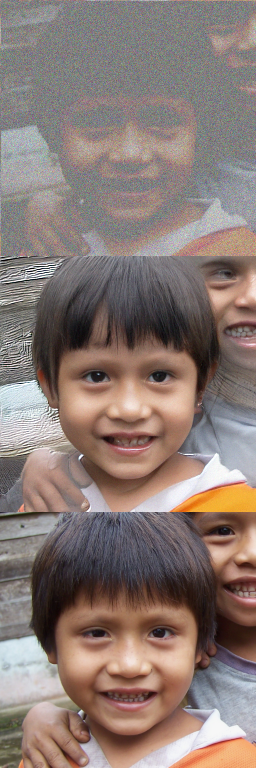
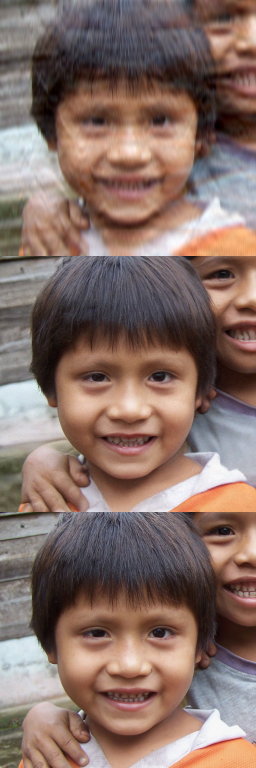
Gaussian Blurring

diff --git a/src/pseudoInverse/operators.py b/src/pseudoInverse/operators.py
@@ -3,6 +3,7 @@ import torch
 import torch.nn as nn
 import torch.nn.functional as F
 from torch.autograd import Function
+from pseudoInverse.utils import compute_svd, apply_matrix
 
 class SuperResolutionPseudoinverseOperator:
     """
@@ -217,124 +218,138 @@ class GrayscaleOperator:
         return rgb_reconstructed
     
 
-import torch
-import torch.nn as nn
-import torch.nn.functional as F
-import numpy as np
-from scipy.ndimage import gaussian_filter
-
-class GaussianDeblurOperator:
+class BlurPseudoinverseOperator:
     """
-    Pseudoinverse operator for Gaussian deblurring tasks.
-    Applies a Gaussian blur in the forward pass and attempts to reverse it in the pseudoinverse.
+    Pseudoinverse operator for blur tasks.
+    Uses SVD to compute the forward blur operation and its pseudoinverse.
     """
-    def __init__(self, kernel_size=15, sigma=2.0, device='cuda'):
+    def __init__(self, kernel_size, sigma, img_dim=256, device="cuda"):
         """
-        Initialize the Gaussian deblurring operator.
+        Initialize the blur pseudoinverse operator.
         
         Args:
-            kernel_size: Size of the Gaussian kernel (default: 15)
-            sigma: Standard deviation of the Gaussian kernel (default: 2.0)
-            device: Device to run computations on ('cuda' or 'cpu')
+            kernel: The 1D kernel to use for blurring
+            img_dim: The dimension of the image (default: 256)
+            device: The device to use for computation (default: "cuda")
         """
-        self.kernel_size = kernel_size
-        self.sigma = sigma
+        self.kernel = self.create_gaussian_kernel(kernel_size, sigma, device)
+        self.img_dim = img_dim
         self.device = device
         
-        # Create the Gaussian kernel
-        self.kernel = self._create_gaussian_kernel(kernel_size, sigma).to(device)
+        # Precompute SVD for efficiency
+        self.U_small, self.singulars_small, self.V_small = compute_svd(self.kernel, img_dim, device)
         
-    def _create_gaussian_kernel(self, kernel_size, sigma):
-        """Create a 2D Gaussian kernel."""
-        # Create a 1D Gaussian kernel
-        x = np.linspace(-(kernel_size // 2), kernel_size // 2, kernel_size)
-        gauss_1d = np.exp(-0.5 * np.square(x) / np.square(sigma))
-        gauss_1d = gauss_1d / np.sum(gauss_1d)
+        # Precompute singulars inverse for pseudoinverse operation
+        nonzero_idx = torch.nonzero(self.singulars_small, as_tuple=True)[0]
+
+        self.singulars_inv = torch.zeros_like(self.singulars_small)
+        self.singulars_inv[nonzero_idx] = 1 / self.singulars_small[nonzero_idx]
         
-        # Create a 2D Gaussian kernel
-        gauss_2d = np.outer(gauss_1d, gauss_1d)
-        gauss_2d = gauss_2d / np.sum(gauss_2d)
-        
-        # Convert to tensor with shape [1, 1, kernel_size, kernel_size]
-        return torch.FloatTensor(gauss_2d).unsqueeze(0).unsqueeze(0)
-    
     def __call__(self, x):
         return self.forward(x)
     
     def forward(self, x):
         """
-        Forward operation h(x): sharp image to blurred image.
+        Forward operation h(x): apply blur to the input image.
         
         Args:
-            x: Sharp image tensor [B, C, H, W]
+            x: Input image tensor
             
         Returns:
-            Blurred image tensor [B, C, H, W]
+            Blurred image tensor
         """
-        B, C, H, W = x.shape
-        blurred = torch.zeros_like(x)
-        
-        # Apply Gaussian blur to each channel separately
-        for b in range(B):
-            for c in range(C):
-                # Extract channel and add batch dimension for conv2d
-                channel = x[b, c].unsqueeze(0).unsqueeze(0)
-                # Apply convolution with Gaussian kernel (padding='same' to maintain dimensions)
-                blurred_channel = F.conv2d(channel, self.kernel, padding=self.kernel_size//2)
-                blurred[b, c] = blurred_channel.squeeze()
-        
-        return blurred
+        temp = apply_matrix(self.V_small.T, x, self.img_dim)
+        temp = self.singulars_small.view(1, 1, self.img_dim, 1) * temp
+        return apply_matrix(self.U_small, temp, self.img_dim)
     
-    def pseudoinverse(self, y, deblur_strength=1.0):
+    def pseudoinverse(self, y):
         """
-        Pseudoinverse operation h†(y): blurred image to sharp image estimation.
-        Uses a simple Wiener filter approach for deblurring.
-        """
-        B, C, H, W = y.shape
-        deblurred = torch.zeros_like(y)
-        
-        # Convert to frequency domain and apply Wiener filtering
-        for b in range(B):
-            for c in range(C):
-                # Extract channel and detach if needed
-                channel = y[b, c]
-                
-                # Use detach() before converting to numpy
-                channel_np = channel.detach().cpu().numpy()
-                kernel_np = self.kernel.squeeze().cpu().numpy()
-                
-                # Rest of the code remains the same...
-                padded_kernel = np.zeros((H, W))
-                kh, kw = kernel_np.shape
-                padded_kernel[:kh, :kw] = kernel_np
-                padded_kernel = np.roll(padded_kernel, -kh//2, axis=0)
-                padded_kernel = np.roll(padded_kernel, -kw//2, axis=1)
-                
-                # FFT of image and kernel
-                channel_fft = np.fft.fft2(channel_np)
-                kernel_fft = np.fft.fft2(padded_kernel)
-                
-                reg_param = 1.0 / deblur_strength
-                wiener_filter = np.conj(kernel_fft) / (np.abs(kernel_fft)**2 + reg_param)
-                
-                deblurred_fft = channel_fft * wiener_filter
-                deblurred_np = np.real(np.fft.ifft2(deblurred_fft))
-                
-                deblurred_np = np.clip(deblurred_np, 0.0, 1.0)
-                deblurred[b, c] = torch.from_numpy(deblurred_np).to(self.device)
-        
-        return deblurred
-    
-    def add_noise(self, y, noise_level=0.01):
-        """
-        Add Gaussian noise to the blurred image.
+        Pseudoinverse operation h†(y): attempt to recover the original image from a blurred one.
         
         Args:
-            y: Blurred image tensor [B, C, H, W]
-            noise_level: Standard deviation of the noise (default: 0.01)
+            y: Blurred image tensor
             
         Returns:
-            Noisy blurred image tensor [B, C, H, W]
+            Deblurred image tensor approximation
         """
-        noise = torch.randn_like(y) * noise_level
-        return y + noise
+        temp = apply_matrix(self.U_small.T, y, self.img_dim)
+        temp = self.singulars_inv.view(1, 1, self.img_dim, 1) * temp
+        return apply_matrix(self.V_small, temp, self.img_dim)
+
+    def create_gaussian_kernel(self, size=21, sigma=5.0, device="cuda"):
+        """
+        Create a 1D Gaussian kernel.
+        
+        Args:
+            size: Size of the kernel (odd number recommended)
+            sigma: Standard deviation of the Gaussian
+            device: Device to create the kernel on
+        
+        Returns:
+            1D Gaussian kernel tensor
+        """
+        coords = torch.arange(size, device=device) - (size - 1) / 2
+        kernel = torch.exp(-(coords ** 2) / (2 * sigma ** 2))
+        kernel = kernel / kernel.sum()  # Normalize to sum to 1
+        return kernel
+    
+
+class InpaintingPseudoinverseOperator:
+    """
+    Pseudoinverse operator for inpainting tasks.
+    Applies a binary mask to an image, zeroing out masked regions.
+    """
+    def __init__(self, img_shape, ratio_mask):
+        """
+        Initialize the inpainting pseudoinverse operator.
+        
+        Args:
+            mask: Binary mask tensor where 1 indicates pixels to keep and 0 indicates pixels to remove
+                 Shape should match the input images [1, 1, H, W] or [1, C, H, W]
+        """
+        self.height, self.width = img_shape[0], img_shape[1]
+        self.mask = self.create_random_mask(self.height, self.width, ratio_mask)
+        
+    def __call__(self, x):
+        return self.forward(x)
+    
+    def forward(self, x):
+        """
+        Forward operation h(x): apply mask to the input image.
+        
+        Args:
+            x: Input image tensor [B, C, H, W]
+            
+        Returns:
+            Masked image tensor with same shape as input
+        """
+        return x * self.mask
+    
+    def pseudoinverse(self, y):
+        """
+        Pseudoinverse operation h†(y): for inpainting, this is simply the identity function
+        since we cannot recover the masked out information.
+        
+        Args:
+            y: Masked image tensor [B, C, H, W]
+            
+        Returns:
+            Same tensor as input (no recovery of masked pixels is possible)
+        """
+        return y
+
+    def create_random_mask(self, height=256, width=256, mask_ratio=0.5, device='cuda'):
+        """
+        Create a random binary mask.
+        
+        Args:
+            height: Height of the mask
+            width: Width of the mask
+            mask_ratio: Ratio of pixels to keep (1-mask_ratio will be masked out)
+            device: Device to create mask on
+        
+        Returns:
+            Binary mask tensor [1, 1, H, W]
+        """
+        mask = torch.rand(1, 1, height, width, device=device) > (1 - mask_ratio)
+        return mask.float()

diff --git a/src/pseudoInverse/algorithm5.py b/src/pseudoInverse/algorithm5.py
@@ -3,7 +3,7 @@ import torch
 from tqdm import tqdm
 from PIL import Image
 
-from pseudoInverse.operators import SuperResolutionPseudoinverseOperator, RotationOperator, IdentityOperator, GrayscaleOperator, GaussianDeblurOperator
+from pseudoInverse.operators import SuperResolutionPseudoinverseOperator, RotationOperator, IdentityOperator, GrayscaleOperator, BlurPseudoinverseOperator
 from pseudoInverse.utils import DiffusionModel
 
 from ddpm.model import DDPM
@@ -144,12 +144,12 @@ if __name__ == "__main__":
     # measurement_operator = IdentityOperator()
     # measurement_operator = RotationOperator(45)
     # measurement_operator = GrayscaleOperator()
-    measurement_operator = GaussianDeblurOperator(sigma=0.5)
+    measurement_operator = BlurPseudoinverseOperator(kernel_size=51, sigma=20.0)
     # measurement_matrix = torch.eye(256).to('cuda')
     low_res_img = measurement_operator(tensor_img)
     
     low_res_img_show = measurement_operator.pseudoinverse(low_res_img)
-    low_res_img_show = measurement_operator.add_noise(low_res_img_show, sigma_y)
+    # low_res_img_show = measurement_operator.add_noise(low_res_img_show, sigma_y)
  
     # Intialize Model
     ddpm = DDPM()
@@ -158,8 +158,9 @@ if __name__ == "__main__":
     # Initialize sampler
     # pidgm_sampler = PiGDM(model, measurement_operator, measurement_matrix, guidance_factor=guidance_factor)
     pidgm_sampler = PiGDM(model, measurement_operator, guidance_factor=guidance_factor)
+    
 
-    # Result
+    # # Result
     high_res_img = pidgm_sampler.sample(low_res_img, num_steps, sigma_y, noiseless)
     out = torch.cat((low_res_img_show, high_res_img, tensor_img), dim = 2)
 

diff --git a/src/pseudoInverse/utils.py b/src/pseudoInverse/utils.py
@@ -1,3 +1,5 @@
+import torch
+
 # Diffusion Model Wrapper
 class DiffusionModel:
     """
@@ -19,3 +21,26 @@ class DiffusionModel:
         eps = self.model(x, t)
         x0_pred = self.model.predict_xstart_from_eps(x, eps=eps, t=t)
         return eps, x0_pred
+    
+
+def compute_svd(kernel, img_dim, device):
+    H_small = torch.zeros(img_dim, img_dim, device=device)
+    kernel_size = kernel.shape[0]
+
+    for i in range(img_dim):
+        for j in range(i - kernel_size // 2, i + kernel_size // 2 + 1):
+            if 0 <= j < img_dim:
+                H_small[i, j] = kernel[j - i + kernel_size // 2]
+
+    U_small, singulars_small, V_small = torch.svd(H_small, some=False)
+    singulars_small[singulars_small < 3e-2] = 0
+
+    return U_small, singulars_small, V_small
+
+
+def apply_matrix(M, vec, img_dim):
+    batch_size = vec.shape[0]
+    vec = vec.view(batch_size * 3, img_dim, img_dim)
+    vec = torch.matmul(M, vec)
+    vec = torch.matmul(vec, M.T)
+    return vec.view(batch_size, 3, img_dim, img_dim) 
